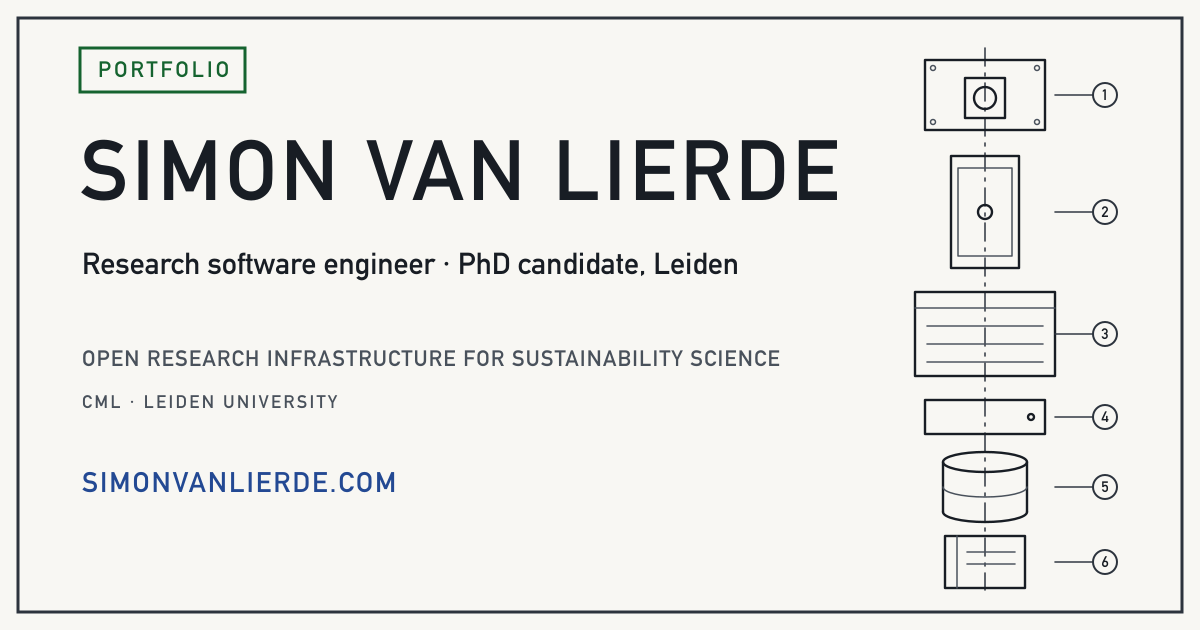
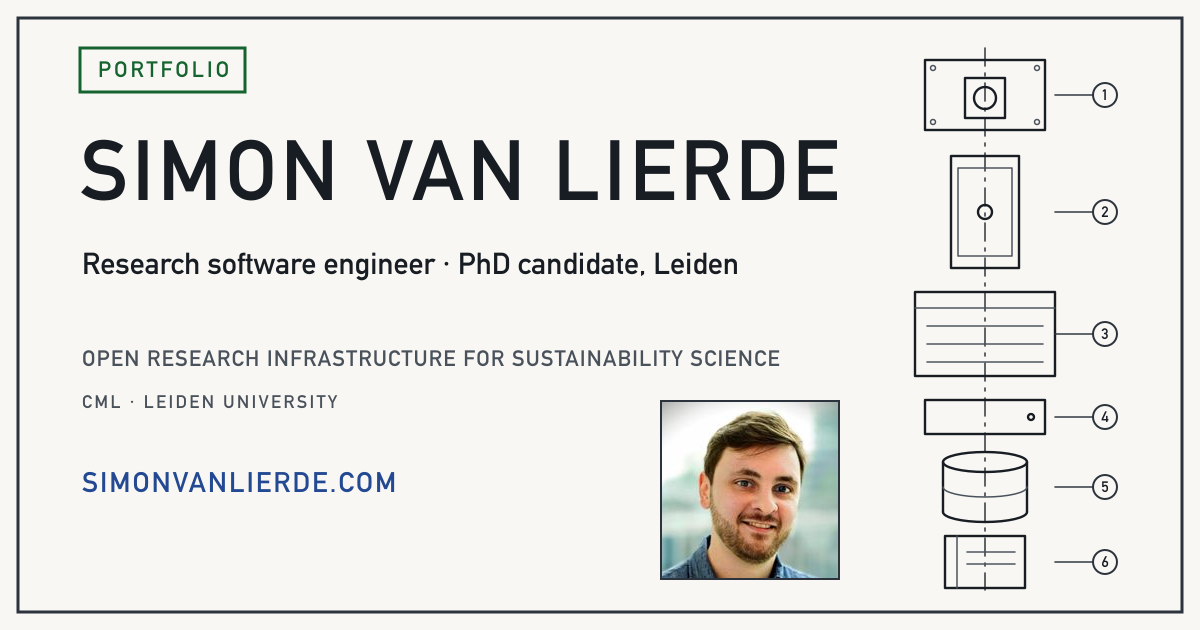
feat: add a portrait in a title zone shared by both sheets (#89)
* feat: add a portrait to both sheets and the social card

- Show a framed portrait above the name on the index and the CV, served
  as a resized WebP through astro:assets
- Place the portrait on the social card in gen-og.mjs and regenerate og.png

* feat: share one title zone between the index and the CV

- Put the portrait beside the name and lead, at their height, in a new
  SheetHead component that both sheets render
- Give both sheets the same two-line lead, the role and then the
  affiliation; the CV sets the rest of the headline as its tagline
- Use one order under the title zone on both sheets: tagline, contact,
  profiles, then the stamp
- Move the index's figure below the title zone, level with the tagline

* fix: fit the shared title zone beside the index figure

- Set the name as given name over family name, beside a portrait of the
  same height, so the title zone fits the index's left column and the
  figure is back on the first laptop screen
- Move the intro into the title zone, so both sheets show the same text
  under the lead; the CV no longer sets the headline's focus as a tagline

* refactor: drop the duplicate R9lab counts from the hero

- Remove the "R9lab to date" line; Notes A and B in the R9lab row carry
  the same sourced counts
- Shorten the Fig. 1 caption, which repeated the intro's description
- Move the contact line and the profiles into the shared title zone, so
  both sheets match down to the stamp and the index shows the location too
[…]

Changed region(s): [[0.5242, 0.6333, 0.7092, 0.9349]]

diff --git a/tests/e2e.spec.ts b/tests/e2e.spec.ts
@@ -368,7 +368,6 @@ test.describe("disassembly chart", () => {
 // name leaves the page.
 const names = [
   "Vue 3",
-  "R9lab",
   "JSON5",
   "JATS4R",
   "AI4IE",
@@ -382,10 +381,10 @@ const names = [
 // Number words count as numbers too. "one" is left out on purpose: every use is idiom.
 const NUMBER_WORD = "(?:two|three|four|five|six|seven|eight|nine|ten|eleven|twelve|dozen|hundreds?|thousands?|million)";
 
-test("every number in the hero, Notes A-D, the project cards and the smaller-projects list has a source and a date", async ({
+test("every number in Notes A-D, the project cards and the smaller-projects list has a source and a date", async ({
   page,
 }) => {
-  const selectors = [".hero__proof", ".notes__list", ".bom-row__desc", ".minor-list"];
+  const selectors = [".notes__list", ".bom-row__desc", ".minor-list"];
   for (const sel of selectors) await expect(page.locator(sel).first()).toBeVisible();
   const regions = page.locator(selectors.join(", "));
   await expect(page.locator(".notes__list [data-source]")).toHaveCount(4);

diff --git a/src/styles/global.css b/src/styles/global.css
@@ -454,6 +454,42 @@ html {
   timeline-scope: --sheet-name;
 }
 
+/* Contact, profiles and the stamp under each sheet's title zone, in the same
+   order and spacing on both sheets. */
+.sheet-contact {
+  margin-top: var(--space-m);
+  font-size: var(--step--1);
+  color: var(--text-muted);
+}
+
+/* Matches the links' box so the row sits on one baseline. */
+.sheet-contact__plain {
+  display: inline-flex;
+  align-items: center;
+  min-height: 44px;
+  padding: 0.65rem 0.25rem;
+  margin: -0.3rem -0.25rem;
+}
+
+.sheet-profiles {
+  margin-top: var(--space-xs);
+  font-size: var(--step--1);
+  letter-spacing: 0.03em;
+  gap: 0 var(--space-m);
+}
+
+.sheet-profiles a {
+  color: var(--text-muted);
+}
+
+.sheet-profiles a:hover {
+  color: var(--accent-strong);
+}
+
+.sheet-stamp {
+  margin-top: var(--space-m);
+}
+
 .sheet-name {
   view-timeline: --sheet-name block;
   view-timeline-inset: 4rem 0;

diff --git a/src/data/cv.ts b/src/data/cv.ts
@@ -20,3 +20,14 @@ export const profiles = [
   { label: "LinkedIn", href: cv.basics.links.linkedin },
   { label: "Leiden profile", href: cv.basics.links.leiden },
 ];
+
+// The headline reads "role · focus · affiliation". Both sheets open on the same
+// lead, the role and the affiliation; the intro below covers the focus.
+const [role, ...headlineRest] = cv.basics.headline.split(" · ");
+
+/** The lead under the name on both sheets: the role, then the affiliation. */
+export const sheetLead = [role, headlineRest.at(-1)].filter((part) => part !== undefined);
+
+/** The sentence under the lead on both sheets, and the index's meta description. */
+export const intro =
+  "At CML, Leiden University, I write open software and collect open data for industrial ecology and the circular economy. Most of my time goes into R9lab, where we take products apart to record what they're made of.";

diff --git a/tests/cv.spec.ts b/tests/cv.spec.ts
@@ -59,7 +59,7 @@ test("the page is dated from the export, machine-readably", async ({ page }) => 
 });
 
 test("contact details render only what the export publishes", async ({ page }) => {
-  const contact = page.locator(".cv-contact");
+  const contact = page.locator(".sheet-contact");
   await expect(contact).toContainText(cv.basics.location);
 
   // Without an exported address, the page must carry no mailto at all.

diff --git a/DESIGN.md b/DESIGN.md
@@ -268,6 +268,7 @@ sheets use these:
 | Tags | Read-only spec callouts, hairline and transparent, never interactive filters |
 | Work row | A parts-list row, not a card: a top rule, no background, no hover tint, the part name as the target |
 | Sheet nav | Sticky, solid ground, hairline rule; current sheet marked with `aria-current="page"` and ink, not colour alone. The SVL monogram stays hidden while the sheet's name heading is in view, like a reference mark that appears once the title is out of sight; on the index it scrolls back to the top |
+| Sheet head | The title zone, identical on every sheet and capped at the index's left column: the portrait in a frame-line box beside the name, set as given name over family name at the same height, then the two-line lead (role, then affiliation), the intro, the contact line and the profiles. Only the stamp under it differs per sheet. The index's figure sits beside it |
 | Title block | ISO 7200 provenance and contact; the profile links repeat, muted, under each sheet's header. The sheet number links to the other sheet, with an arrow that points the way |
 | Exploded view | The signature figure; see below |
 | General notes | Datum-lettered running totals, sitting with the platform they describe |
